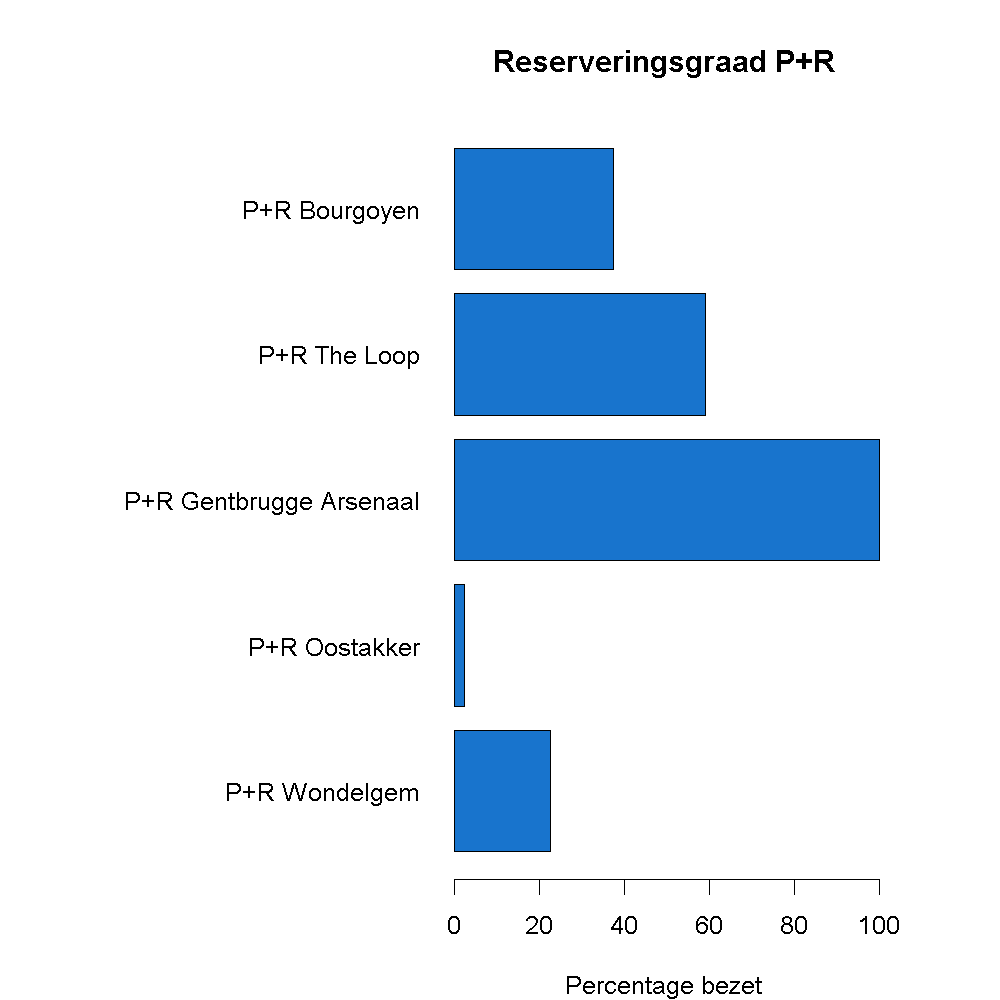
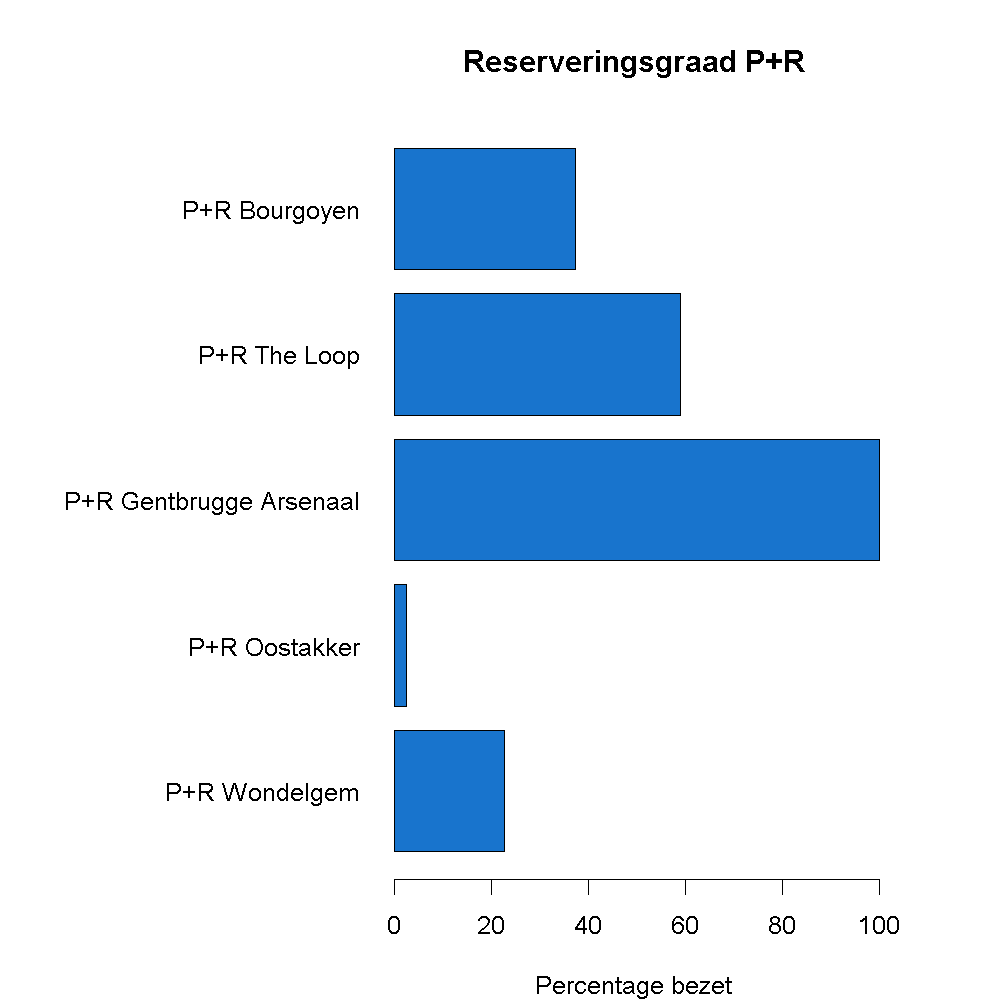
Adjusted margin

diff --git a/Deel 1 Statistiek/04 Grafische weergaven/Z - Evaluatie/P+R Gent/description/description.nl.md b/Deel 1 Statistiek/04 Grafische weergaven/Z - Evaluatie/P+R Gent/description/description.nl.md
@@ -29,7 +29,7 @@ via `head(data)` krijgen we een overzicht van deze gegevens:
 Maak onderstaand staafdiagram met de reserveringsgraad na, gebruik hiervoor de volgende richtlijnen.
 
 - Maak een vector `reserveringsgraad` aan, waar je het percentage gereserveerde plaatsen berekent. Rond hier af op **1 cijfer na de komma**.
-- Maak het staafdiagram, kies zelf een kleur uit dit <a href="http://www.stat.columbia.edu/~tzheng/files/Rcolor.pdf" target="_blank">document</a>. Gebruik enkele extra argumenten om het staafdiagram horizontaal te plaatsen, zoals `las = 1`. Om de linkermarge te vergroten geef je het commando `par(mar = c(4, 15, 4, 4))` in **voordat** je de grafiek aanmaakt.
+- Maak het staafdiagram, kies zelf een kleur uit dit <a href="http://www.stat.columbia.edu/~tzheng/files/Rcolor.pdf" target="_blank">document</a>. Gebruik enkele extra argumenten om het staafdiagram horizontaal te plaatsen, zoals `las = 1`. Om de linkermarge te vergroten geef je het commando `par(mar = c(4, 13, 4, 4))` in **voordat** je de grafiek aanmaakt.
 
 ![Reserveringsgraad P+R Gent](media/plot.png "Reserveringsgraad P+R Gent."){:data-caption="Reserveringsgraad P+R Gent" .light-only width="480px"}
 
